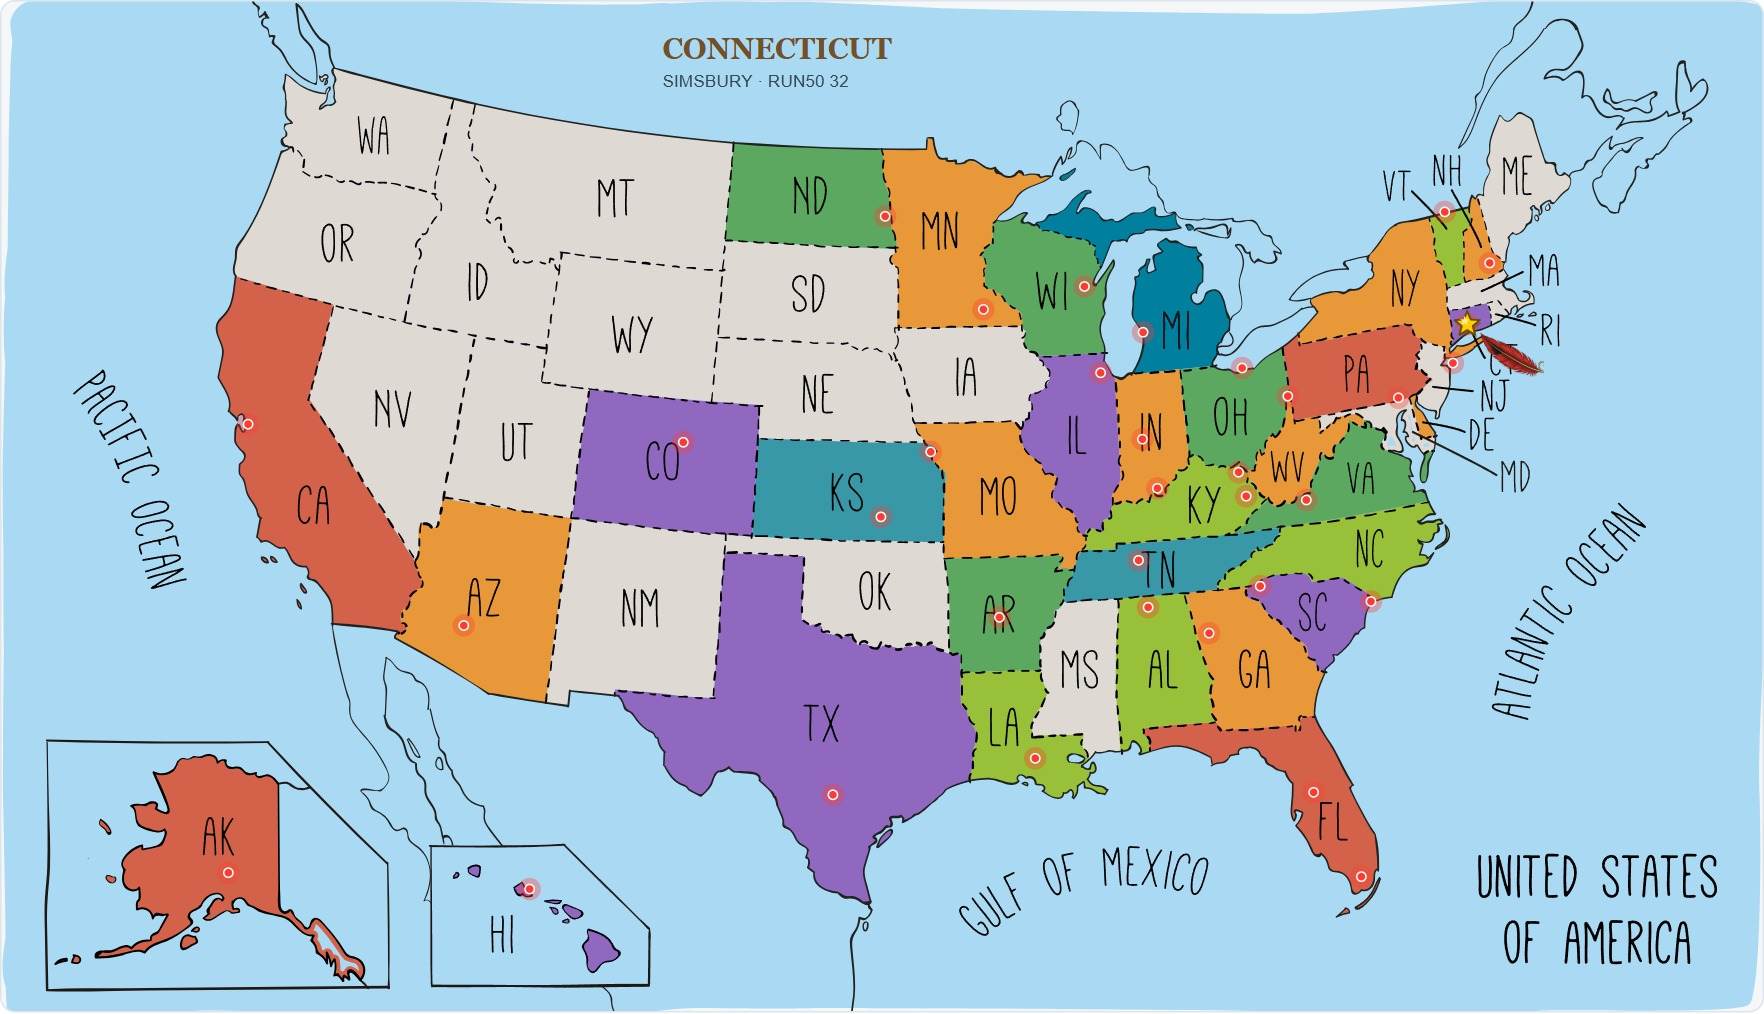
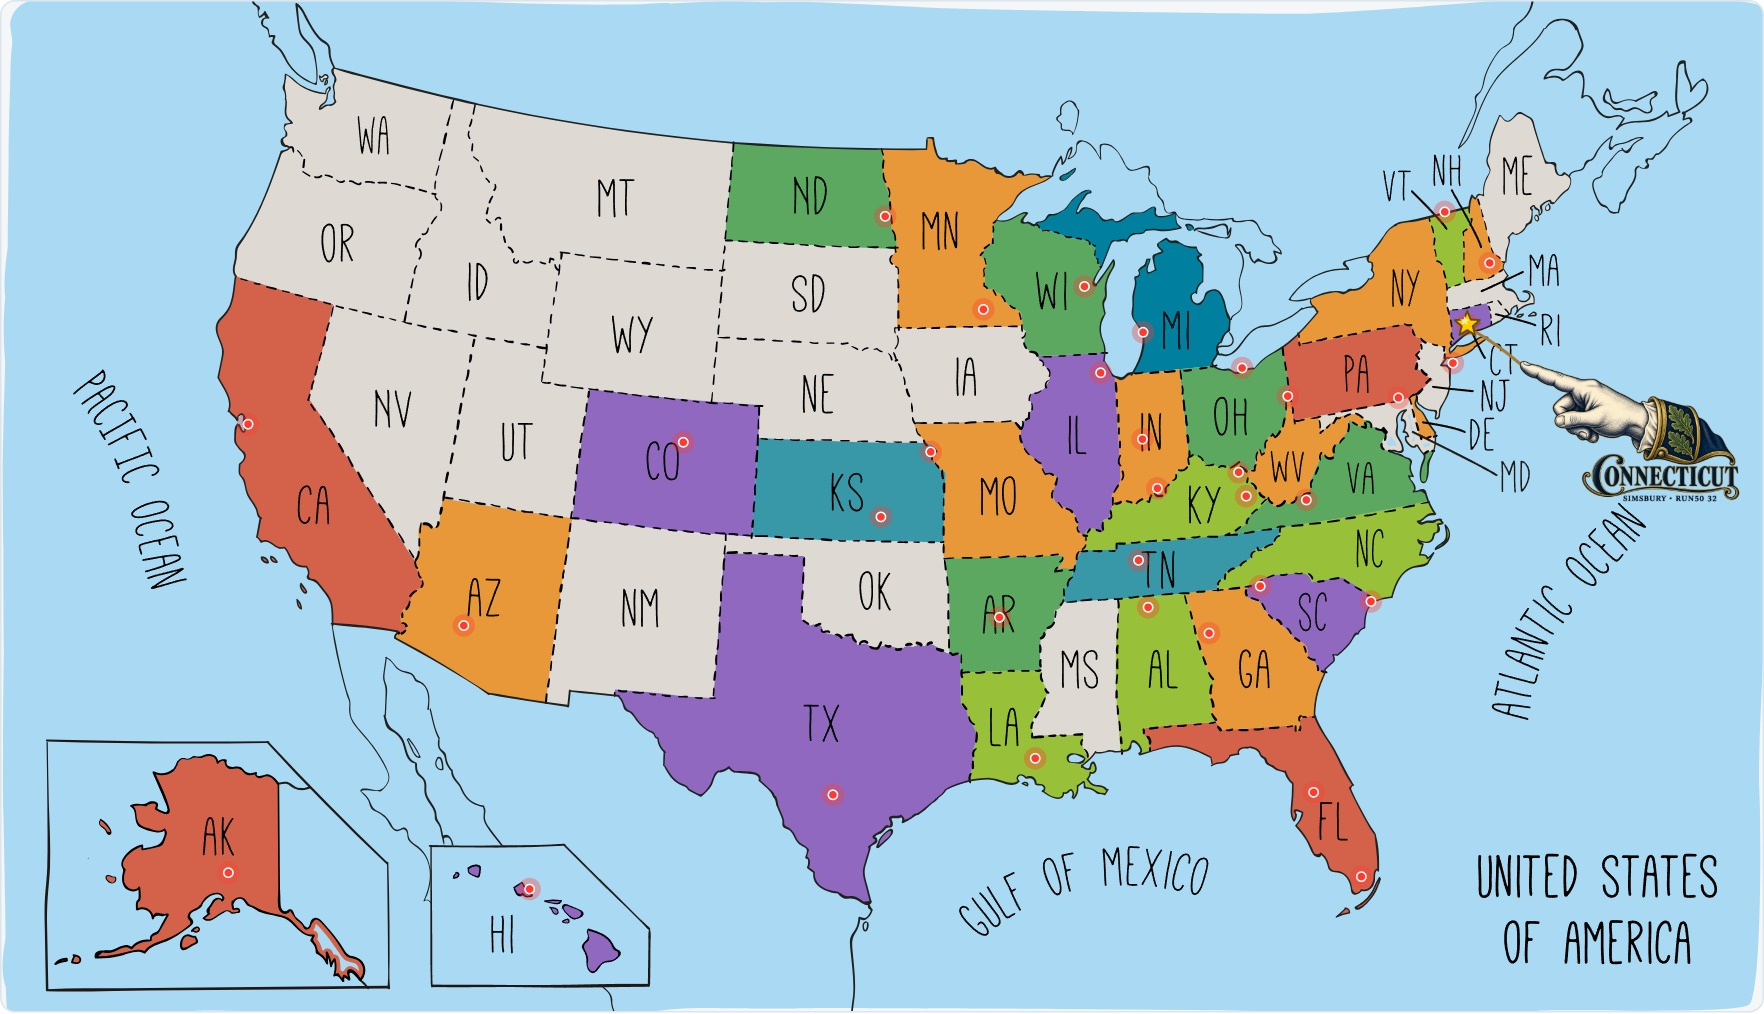
Fix Connecticut map callout and square medal slideshow

Changed region(s): [[0.873, 0.3669, 0.9977, 0.5197], [0.3741, 0.0306, 0.4989, 0.0917], [0.8418, 0.3363, 0.873, 0.3669]]

diff --git a/run50/wechat-new/connecticut-simsbury-marathon-d-rail.html b/run50/wechat-new/connecticut-simsbury-marathon-d-rail.html
@@ -18,9 +18,9 @@ html[data-theme="dark"] .ending{border-color:#444}html[data-theme="dark"] .copy-
 
 main{padding-left:20px;padding-right:20px}.cover,.intro,.chapter{margin-left:0;margin-right:0}</style></head><body><nav class="copy-tools"><a href="/CN/" style="color:inherit">全部中文文章</a><a href="/run50/wechat-new/connecticut-simsbury-marathon-d-rail-original.html" style="color:inherit">原版赛道风</a><button data-theme-choice="light" aria-pressed="true" type="button">白底</button><button data-theme-choice="dark" aria-pressed="false" type="button">黑底</button><button id="copy-wechat" type="button">一键复制到公众号</button><span id="copy-status" role="status" aria-live="polite"></span></nav><main data-edition="connecticut-editorial"><header class="masthead"><h1>Run50 第32州｜康涅狄格：新英格兰六连赛，从辛斯伯里开始</h1><p class="byline">文字 / Arsenan</p></header>
 <picture class="brand-intro"><source media="(prefers-reduced-motion: reduce)" srcset="/assets/run50-robot-intro-compact-still.png"><img src="/assets/run50-robot-intro-compact.gif" alt="Run50 机器人片头" width="224" height="300"></picture>
-<figure class="cover"><picture><source media="(prefers-reduced-motion: reduce)" srcset="/assets/connecticut-editorial/CT-50.jpg"><img src="/assets/connecticut-editorial/hero.gif" alt="康涅狄格：跑步、合影、小鸭子与奖牌" width="900" height="820"></picture><figcaption class="hero-credit">人物照 / Siqi · 合影与奖牌署名见正文</figcaption></figure>
+<figure class="cover"><picture><source media="(prefers-reduced-motion: reduce)" srcset="/assets/connecticut-editorial/CT-50.jpg"><img src="/assets/connecticut-editorial/hero.gif?v=square-medal-2" alt="康涅狄格：跑步、合影、小鸭子与奖牌" width="900" height="900"></picture><figcaption class="hero-credit">人物照 / Siqi · 合影与奖牌署名见正文</figcaption></figure>
 <div class="down" aria-hidden="true">⌄<br>⌄<br>⌄</div><section class="intro"><p>从尼亚加拉到新英格兰，凌晨五点穿着7号球衣起跑。十二圈绿道，一排小鸭子，六连赛的第一站。</p></section>
-<figure class="photo-strip map-poster" style="margin:32px 0 36px"><img src="/assets/connecticut-editorial/map.jpg" alt="第32州康涅狄格，星标辛斯伯里" style="display:block;width:100%;height:auto;margin:0"><img src="/assets/connecticut-editorial/poster.jpg" alt="2026 康涅狄格 辛斯伯里 RUN50 32" style="display:block;width:100%;height:auto;margin:0"><figcaption style="margin:10px 0 0;text-align:center;font-size:12px;line-height:1.8;color:#888">第32州 · 康涅狄格，星标为辛斯伯里｜制图 / Arsenan<br>2026 · Simsbury · New England Series Day 1</figcaption></figure>
+<figure class="photo-strip map-poster" style="margin:32px 0 36px"><img src="/assets/connecticut-editorial/map.jpg?v=oak-hand-2" alt="第32州康涅狄格，星标辛斯伯里" style="display:block;width:100%;height:auto;margin:0"><img src="/assets/connecticut-editorial/poster.jpg" alt="2026 康涅狄格 辛斯伯里 RUN50 32" style="display:block;width:100%;height:auto;margin:0"><figcaption style="margin:10px 0 0;text-align:center;font-size:12px;line-height:1.8;color:#888">第32州 · 康涅狄格，星标为辛斯伯里｜制图 / Arsenan<br>2026 · Simsbury · New England Series Day 1</figcaption></figure>
 <header class="chapter"><span class="chapter-number">01</span><p class="chapter-label">前言</p><h2>新英格兰六连赛，先从康涅狄格开始</h2></header>
 <p class="prose" style="margin:0 0 22px;font-size:15px;line-height:1.95;letter-spacing:.5px;text-align:justify">明尼苏达之后，我的下一站是新英格兰。这一次不是单独一场比赛，而是 Mainly Marathons 办的<span>新英格兰系列赛</span>：6 月 8 日到 13 日，六天，六个州，康涅狄格、罗得岛、马萨诸塞、佛蒙特、新罕布什尔、缅因。</p>
 <p class="prose" style="margin:0 0 22px;font-size:15px;line-height:1.95;letter-spacing:.5px;text-align:justify">Mainly Marathons 的比赛都是<span>小规模</span>，路线是一条不长的环线，全马要反复跑很多圈，圈的中间只有一个<span>大补给站</span>。康涅狄格这一站，官方页面写的是全马<span>12 圈</span>。</p>

diff --git a/run50/wechat/connecticut-simsbury-marathon-editorial.html b/run50/wechat/connecticut-simsbury-marathon-editorial.html
@@ -18,9 +18,9 @@ html[data-theme="dark"] .ending{border-color:#444}html[data-theme="dark"] .copy-
 
 main{padding-left:20px;padding-right:20px}.cover,.intro,.chapter{margin-left:0;margin-right:0}</style></head><body><nav class="copy-tools"><a href="/CN/" style="color:inherit">全部中文文章</a><a href="/run50/wechat-new/connecticut-simsbury-marathon-d-rail-original.html" style="color:inherit">原版赛道风</a><button data-theme-choice="light" aria-pressed="true" type="button">白底</button><button data-theme-choice="dark" aria-pressed="false" type="button">黑底</button><button id="copy-wechat" type="button">一键复制到公众号</button><span id="copy-status" role="status" aria-live="polite"></span></nav><main data-edition="connecticut-editorial"><header class="masthead"><h1>Run50 第32州｜康涅狄格：新英格兰六连赛，从辛斯伯里开始</h1><p class="byline">文字 / Arsenan</p></header>
 <picture class="brand-intro"><source media="(prefers-reduced-motion: reduce)" srcset="/assets/run50-robot-intro-compact-still.png"><img src="/assets/run50-robot-intro-compact.gif" alt="Run50 机器人片头" width="224" height="300"></picture>
-<figure class="cover"><picture><source media="(prefers-reduced-motion: reduce)" srcset="/assets/connecticut-editorial/CT-50.jpg"><img src="/assets/connecticut-editorial/hero.gif" alt="康涅狄格：跑步、合影、小鸭子与奖牌" width="900" height="820"></picture><figcaption class="hero-credit">人物照 / Siqi · 合影与奖牌署名见正文</figcaption></figure>
+<figure class="cover"><picture><source media="(prefers-reduced-motion: reduce)" srcset="/assets/connecticut-editorial/CT-50.jpg"><img src="/assets/connecticut-editorial/hero.gif?v=square-medal-2" alt="康涅狄格：跑步、合影、小鸭子与奖牌" width="900" height="900"></picture><figcaption class="hero-credit">人物照 / Siqi · 合影与奖牌署名见正文</figcaption></figure>
 <div class="down" aria-hidden="true">⌄<br>⌄<br>⌄</div><section class="intro"><p>从尼亚加拉到新英格兰，凌晨五点穿着7号球衣起跑。十二圈绿道，一排小鸭子，六连赛的第一站。</p></section>
-<figure class="photo-strip map-poster" style="margin:32px 0 36px"><img src="/assets/connecticut-editorial/map.jpg" alt="第32州康涅狄格，星标辛斯伯里" style="display:block;width:100%;height:auto;margin:0"><img src="/assets/connecticut-editorial/poster.jpg" alt="2026 康涅狄格 辛斯伯里 RUN50 32" style="display:block;width:100%;height:auto;margin:0"><figcaption style="margin:10px 0 0;text-align:center;font-size:12px;line-height:1.8;color:#888">第32州 · 康涅狄格，星标为辛斯伯里｜制图 / Arsenan<br>2026 · Simsbury · New England Series Day 1</figcaption></figure>
+<figure class="photo-strip map-poster" style="margin:32px 0 36px"><img src="/assets/connecticut-editorial/map.jpg?v=oak-hand-2" alt="第32州康涅狄格，星标辛斯伯里" style="display:block;width:100%;height:auto;margin:0"><img src="/assets/connecticut-editorial/poster.jpg" alt="2026 康涅狄格 辛斯伯里 RUN50 32" style="display:block;width:100%;height:auto;margin:0"><figcaption style="margin:10px 0 0;text-align:center;font-size:12px;line-height:1.8;color:#888">第32州 · 康涅狄格，星标为辛斯伯里｜制图 / Arsenan<br>2026 · Simsbury · New England Series Day 1</figcaption></figure>
 <header class="chapter"><span class="chapter-number">01</span><p class="chapter-label">前言</p><h2>新英格兰六连赛，先从康涅狄格开始</h2></header>
 <p class="prose" style="margin:0 0 22px;font-size:15px;line-height:1.95;letter-spacing:.5px;text-align:justify">明尼苏达之后，我的下一站是新英格兰。这一次不是单独一场比赛，而是 Mainly Marathons 办的<span>新英格兰系列赛</span>：6 月 8 日到 13 日，六天，六个州，康涅狄格、罗得岛、马萨诸塞、佛蒙特、新罕布什尔、缅因。</p>
 <p class="prose" style="margin:0 0 22px;font-size:15px;line-height:1.95;letter-spacing:.5px;text-align:justify">Mainly Marathons 的比赛都是<span>小规模</span>，路线是一条不长的环线，全马要反复跑很多圈，圈的中间只有一个<span>大补给站</span>。康涅狄格这一站，官方页面写的是全马<span>12 圈</span>。</p>

diff --git a/tools/build_wechat_connecticut_editorial.py b/tools/build_wechat_connecticut_editorial.py
@@ -7,7 +7,7 @@ SLUG='connecticut-simsbury-marathon'
 def render():
  d=json.loads((ROOT/'tools/data/connecticut-editorial.json').read_text(encoding='utf-8'));css=re.search(r'<style>(.*?)</style>',template.render(),re.S).group(1)
  css+='\nmain{padding-left:20px;padding-right:20px}.cover,.intro,.chapter{margin-left:0;margin-right:0}'
- body=[f'<header class="masthead"><h1>{escape(d["title"])}</h1><p class="byline">文字 / Arsenan</p></header>','<picture class="brand-intro"><source media="(prefers-reduced-motion: reduce)" srcset="/assets/run50-robot-intro-compact-still.png"><img src="/assets/run50-robot-intro-compact.gif" alt="Run50 机器人片头" width="224" height="300"></picture>','<figure class="cover"><picture><source media="(prefers-reduced-motion: reduce)" srcset="/assets/connecticut-editorial/CT-50.jpg"><img src="/assets/connecticut-editorial/hero.gif" alt="康涅狄格：跑步、合影、小鸭子与奖牌" width="900" height="820"></picture><figcaption class="hero-credit">人物照 / Siqi · 合影与奖牌署名见正文</figcaption></figure>','<div class="down" aria-hidden="true">⌄<br>⌄<br>⌄</div><section class="intro"><p>从尼亚加拉到新英格兰，凌晨五点穿着7号球衣起跑。十二圈绿道，一排小鸭子，六连赛的第一站。</p></section>','<figure class="photo-strip map-poster" style="margin:32px 0 36px"><img src="/assets/connecticut-editorial/map.jpg" alt="第32州康涅狄格，星标辛斯伯里" style="display:block;width:100%;height:auto;margin:0"><img src="/assets/connecticut-editorial/poster.jpg" alt="2026 康涅狄格 辛斯伯里 RUN50 32" style="display:block;width:100%;height:auto;margin:0"><figcaption style="margin:10px 0 0;text-align:center;font-size:12px;line-height:1.8;color:#888">第32州 · 康涅狄格，星标为辛斯伯里｜制图 / Arsenan<br>2026 · Simsbury · New England Series Day 1</figcaption></figure>']
+ body=[f'<header class="masthead"><h1>{escape(d["title"])}</h1><p class="byline">文字 / Arsenan</p></header>','<picture class="brand-intro"><source media="(prefers-reduced-motion: reduce)" srcset="/assets/run50-robot-intro-compact-still.png"><img src="/assets/run50-robot-intro-compact.gif" alt="Run50 机器人片头" width="224" height="300"></picture>','<figure class="cover"><picture><source media="(prefers-reduced-motion: reduce)" srcset="/assets/connecticut-editorial/CT-50.jpg"><img src="/assets/connecticut-editorial/hero.gif?v=square-medal-2" alt="康涅狄格：跑步、合影、小鸭子与奖牌" width="900" height="900"></picture><figcaption class="hero-credit">人物照 / Siqi · 合影与奖牌署名见正文</figcaption></figure>','<div class="down" aria-hidden="true">⌄<br>⌄<br>⌄</div><section class="intro"><p>从尼亚加拉到新英格兰，凌晨五点穿着7号球衣起跑。十二圈绿道，一排小鸭子，六连赛的第一站。</p></section>','<figure class="photo-strip map-poster" style="margin:32px 0 36px"><img src="/assets/connecticut-editorial/map.jpg?v=oak-hand-2" alt="第32州康涅狄格，星标辛斯伯里" style="display:block;width:100%;height:auto;margin:0"><img src="/assets/connecticut-editorial/poster.jpg" alt="2026 康涅狄格 辛斯伯里 RUN50 32" style="display:block;width:100%;height:auto;margin:0"><figcaption style="margin:10px 0 0;text-align:center;font-size:12px;line-height:1.8;color:#888">第32州 · 康涅狄格，星标为辛斯伯里｜制图 / Arsenan<br>2026 · Simsbury · New England Series Day 1</figcaption></figure>']
  n=0
  for b in d['blocks']:
   if b['kind']=='heading':

diff --git a/tools/build_wechat_connecticut_hero.py b/tools/build_wechat_connecticut_hero.py
@@ -2,8 +2,8 @@ from pathlib import Path
 import subprocess,tempfile
 r=Path.cwd()
 with tempfile.TemporaryDirectory() as td:
- for i,key in enumerate(['CT-50','CT-59','CT-42','CT-55','CT-57']):
-  vf='scale=900:820:force_original_aspect_ratio=increase,crop=900:820:0:0' if key in ['CT-50','CT-42'] else 'scale=900:820:force_original_aspect_ratio=increase,crop=900:820'
-  if key=='CT-55':vf='scale=900:820:force_original_aspect_ratio=decrease,pad=900:820:(ow-iw)/2:(oh-ih)/2:color=0xf5f1e6'
+ for i,key in enumerate(['CT-50','CT-59','CT-42','CT-55-1','CT-57']):
+  vf='scale=900:900:force_original_aspect_ratio=increase,crop=900:900:0:0' if key in ['CT-50','CT-42'] else 'scale=900:900:force_original_aspect_ratio=increase,crop=900:900'
+  if key=='CT-55-1':vf='scale=900:900:force_original_aspect_ratio=decrease,pad=900:900:(ow-iw)/2:(oh-ih)/2:color=0xf5f1e6'
   subprocess.run(['ffmpeg','-y','-loglevel','error','-i',str(r/f'assets/connecticut-editorial/{key}.jpg'),'-vf',vf,'-frames:v','1',str(Path(td)/f'{i:02}.png')],check=True)
  subprocess.run(['ffmpeg','-y','-loglevel','error','-framerate','1/3','-i',str(Path(td)/'%02d.png'),'-filter_complex','split[a][b];[a]palettegen=stats_mode=full[p];[b][p]paletteuse=dither=sierra2_4a','-loop','0',str(r/'assets/connecticut-editorial/hero.gif')],check=True)
